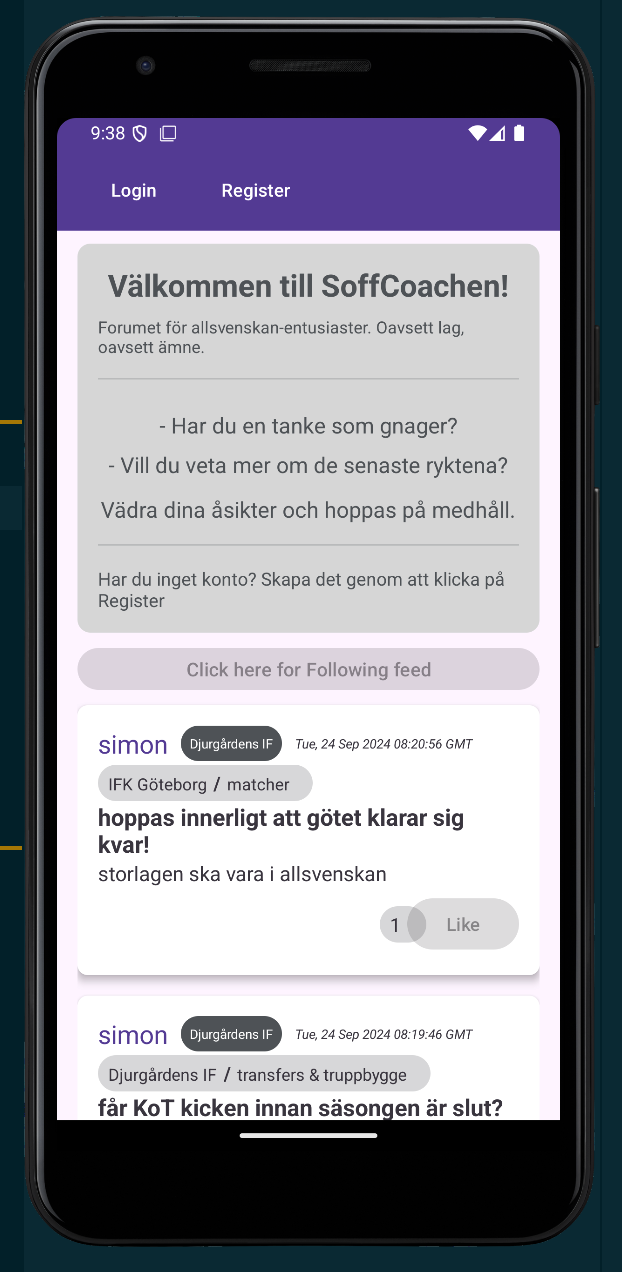
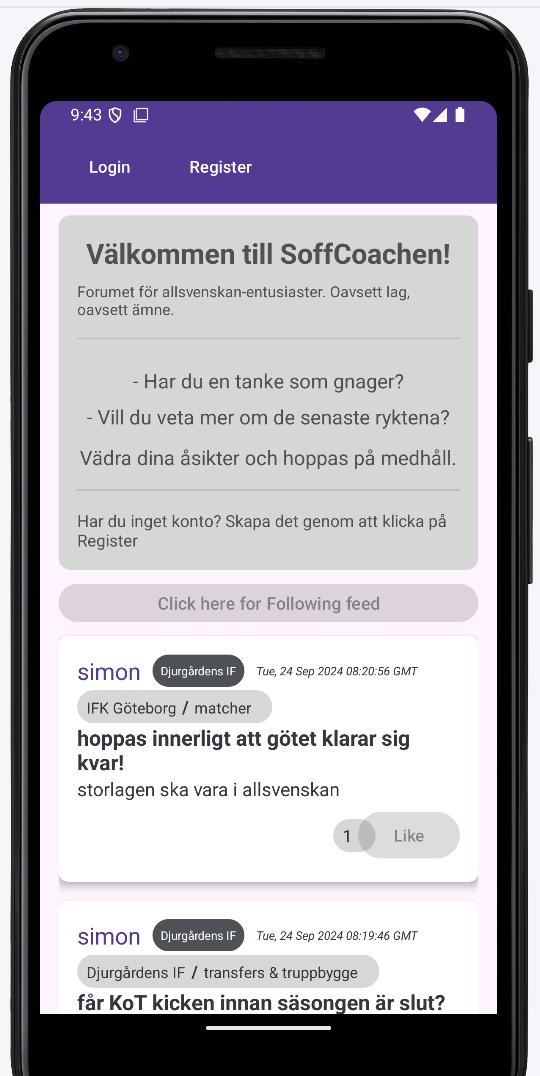
new pics

diff --git a/README.md b/README.md
@@ -1,3 +1,8 @@
 ## Repo for my client android app that connects to SoffCoachen (other repo)
 
-![sc](screenshot_frontpage_android.png?raw=true "Title")
+
+<div style="display: flex; justify-content: space-between;">
+    <img src="screenshot_frontpage_android.png" alt="Title" style="width: 35%;">
+    <img src="screenshot_frontpage_android2.png" alt="Title" style="width: 35%;">
+    <img src="screenshot_frontpage_android3.png" alt="Title" style="width: 35%;">
+</div>
